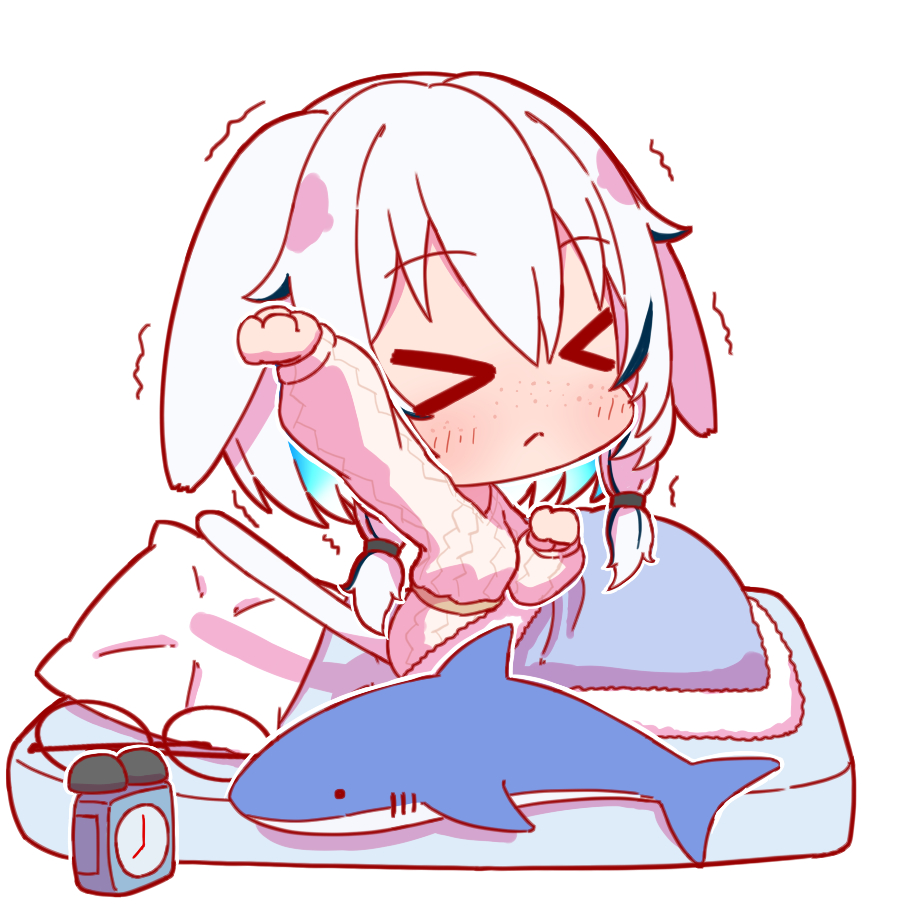
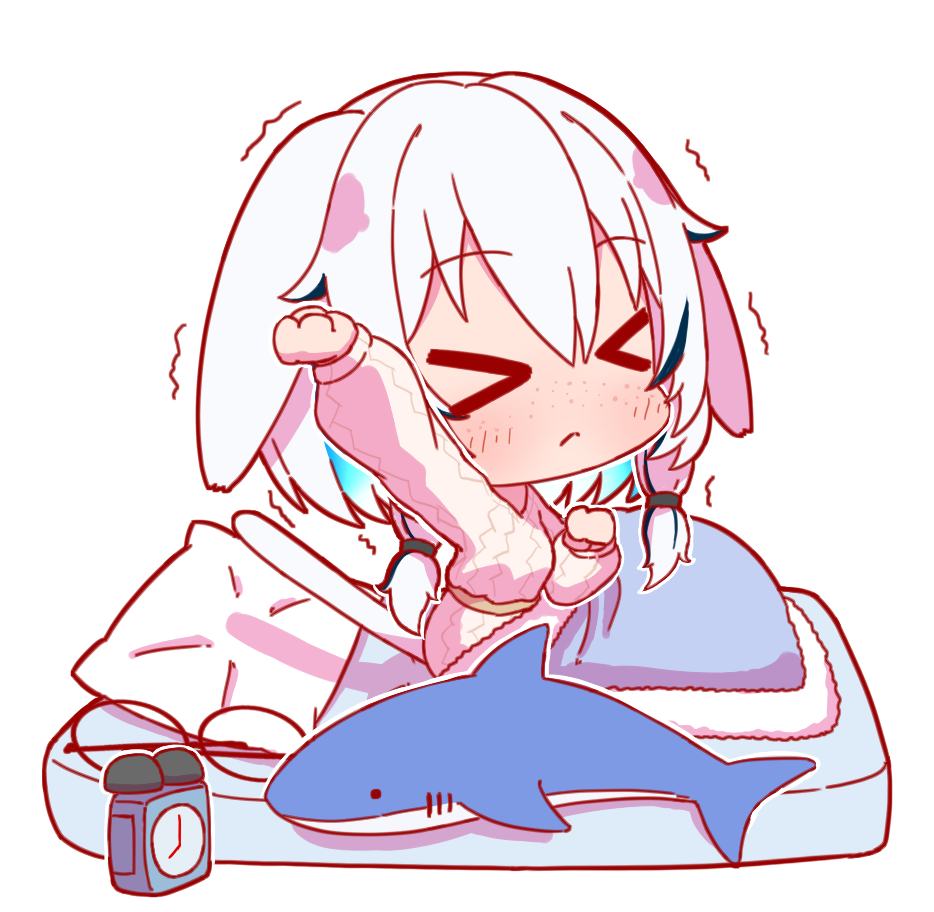
HO HO HO

Changed region(s): [[0.0, 0.0622, 0.9644, 1.0]]

diff --git a/src-ui/app/views/dashboard-view/views/overview-view/overview-view.component.ts b/src-ui/app/views/dashboard-view/views/overview-view/overview-view.component.ts
@@ -5,6 +5,9 @@ import { OpenVRService } from '../../../../services/openvr.service';
 import { OscService } from '../../../../services/osc.service';
 import { takeUntilDestroyed } from '@angular/core/rxjs-interop';
 import { SleepPreparationService } from '../../../../services/sleep-preparation.service';
+import { isHolidaysEventActive } from 'src-ui/app/utils/event-utils';
+
+type IllustrationVariant = 'sleep' | 'peek' | 'awake' | 'awake-hover';
 
 @Component({
   selector: 'app-overview-view',
@@ -15,7 +18,8 @@ import { SleepPreparationService } from '../../../../services/sleep-preparation.
 })
 export class OverviewViewComponent implements OnInit {
   sleepModeActive = false;
-  illustration: 'sleep' | 'peek' | 'awake' | 'awake-hover' | null = null;
+  illustrationPath: string | null = null;
+  illustrationVariant: IllustrationVariant | null = null;
   mouseover = false;
 
   constructor(
@@ -29,7 +33,7 @@ export class OverviewViewComponent implements OnInit {
   ngOnInit(): void {
     this.sleep.mode.pipe(takeUntilDestroyed(this.destroyRef)).subscribe((sleepModeActive) => {
       this.sleepModeActive = sleepModeActive;
-      this.determineIllustration();
+      this.determineIllustrationPath();
     });
   }
 
@@ -41,12 +45,21 @@ export class OverviewViewComponent implements OnInit {
     }
   }
 
-  protected determineIllustration(mouseover: boolean | null = null) {
+  protected determineIllustrationPath(mouseover: boolean | null = null) {
     if (mouseover !== null) this.mouseover = mouseover;
+    const tags = ['illustration'];
+
+    if (isHolidaysEventActive()) tags.push('holidays');
+
+    let variant: IllustrationVariant = 'awake';
     if (this.sleepModeActive) {
-      this.illustration = this.mouseover ? 'peek' : 'sleep';
+      variant = this.mouseover ? 'peek' : 'sleep';
     } else {
-      this.illustration = this.mouseover ? 'awake-hover' : 'awake';
+      variant = this.mouseover ? 'awake-hover' : 'awake';
     }
+    tags.push(variant);
+
+    this.illustrationVariant = variant;
+    this.illustrationPath = `assets/img/${tags.join('_')}.png`;
   }
 }

diff --git a/src-ui/app/components/main-status-bar/main-status-bar.component.ts b/src-ui/app/components/main-status-bar/main-status-bar.component.ts
@@ -23,6 +23,7 @@ import { BSBFanSpeedControlModalComponent } from '../bsb-fan-speed-control-modal
 import { MqttService } from '../../services/mqtt/mqtt.service';
 import { CCTControlService } from '../../services/cct-control/cct-control.service';
 import { CCTControlModalComponent } from '../cct-control-modal/cct-control-modal.component';
+import { isHolidaysEventActive } from 'src-ui/app/utils/event-utils';
 
 @Component({
   selector: 'app-main-status-bar',
@@ -37,7 +38,7 @@ export class MainStatusBarComponent implements OnInit {
   private brightnessControlModalOpen = false;
   private bsbFanSpeedControlModalOpen = false;
   private cctControlModalOpen = false;
-  protected snowverlayAvailable = new Date().getDate() >= 18 && new Date().getMonth() == 11;
+  protected snowverlayAvailable = isHolidaysEventActive(); 
   protected snowverlayActive = false;
   protected mqttStatus: 'DISABLED' | 'CONNECTED' | 'DISCONNECTED' | 'ERROR' = 'DISABLED';
   protected cctControlEnabled = false;

diff --git a/src-ui/app/views/dashboard-view/views/overview-view/overview-view.component.html b/src-ui/app/views/dashboard-view/views/overview-view/overview-view.component.html
@@ -48,13 +48,13 @@
       }
     </div>
     @for (i of ['sleep', 'peek', 'awake', 'awake-hover']; track i) {
-      <div class="illustration" [ngClass]="[i, illustration === i ? 'active' : '']">
-        <img [attr.src]="'assets/img/illustration_' + i + '.png'" class="bg" />
+      <div class="illustration" [ngClass]="[i, illustrationVariant === i ? 'active' : '']">
+        <img [attr.src]="illustrationPath" class="bg" />
         <img
-          [attr.src]="'assets/img/illustration_' + i + '.png'"
+          [attr.src]="illustrationPath"
           (click)="setSleepMode(!sleepModeActive)"
-          (mouseenter)="determineIllustration(true)"
-          (mouseleave)="determineIllustration(false)"
+          (mouseenter)="determineIllustrationPath(true)"
+          (mouseleave)="determineIllustrationPath(false)"
         />
       </div>
     }

diff --git a/src-ui/app/app.component.ts b/src-ui/app/app.component.ts
@@ -7,6 +7,7 @@ import { takeUntilDestroyed } from '@angular/core/rxjs-interop';
 import { debounceTime, distinctUntilChanged, map, skip, tap } from 'rxjs';
 import { fade } from './utils/animations';
 import { TelemetryService } from './services/telemetry.service';
+import { isHolidaysEventActive } from './utils/event-utils';
 
 @Component({
   selector: 'app-root',
@@ -43,8 +44,7 @@ export class AppComponent implements OnInit {
         distinctUntilChanged()
       )
       .subscribe((hideSnowverlay) => {
-        const now = new Date();
-        this.showSnowverlay = !hideSnowverlay && now.getMonth() === 11 && now.getDate() >= 18;
+        this.showSnowverlay = !hideSnowverlay && isHolidaysEventActive();
       });
   }
 

diff --git a/src-ui/app/views/dashboard-view/views/overview-view/overview-view.component.scss b/src-ui/app/views/dashboard-view/views/overview-view/overview-view.component.scss
@@ -75,7 +75,7 @@ app-event-log {
     display: inline-block;
     position: absolute;
     height: 100%;
-    padding: 1em 2em;
+    padding: 0.5em 1em;
     opacity: 0;
     top: 0;
     right: 0;
@@ -94,7 +94,7 @@ app-event-log {
     img {
       pointer-events: all;
       height: 100%;
-      transform: translateY(-0.5em);
+      transform: translateY(0);
       cursor: pointer;
       transition: all 0.15s ease-in-out;
 
@@ -103,7 +103,7 @@ app-event-log {
       }
 
       &:first-child {
-        transform: translate(100%, -0.5em);
+        transform: translate(100%, 0);
         filter: blur(4px);
         opacity: 0.5;
       }

diff --git a/src-ui/app/components/snowverlay/snowverlay.component.scss b/src-ui/app/components/snowverlay/snowverlay.component.scss
@@ -10,6 +10,7 @@
   overflow: hidden;
   filter: drop-shadow(0 0 10px white);
   pointer-events: none;
+  z-index: 1000;
 }
 
 @function random_range($min, $max) {

diff --git a/src-ui/app/utils/event-utils.ts b/src-ui/app/utils/event-utils.ts
@@ -1,0 +1,4 @@
+export const isHolidaysEventActive = () => {
+  const now = new Date();
+  return now.getMonth() === 11 && now.getDate() >= 1;
+};
